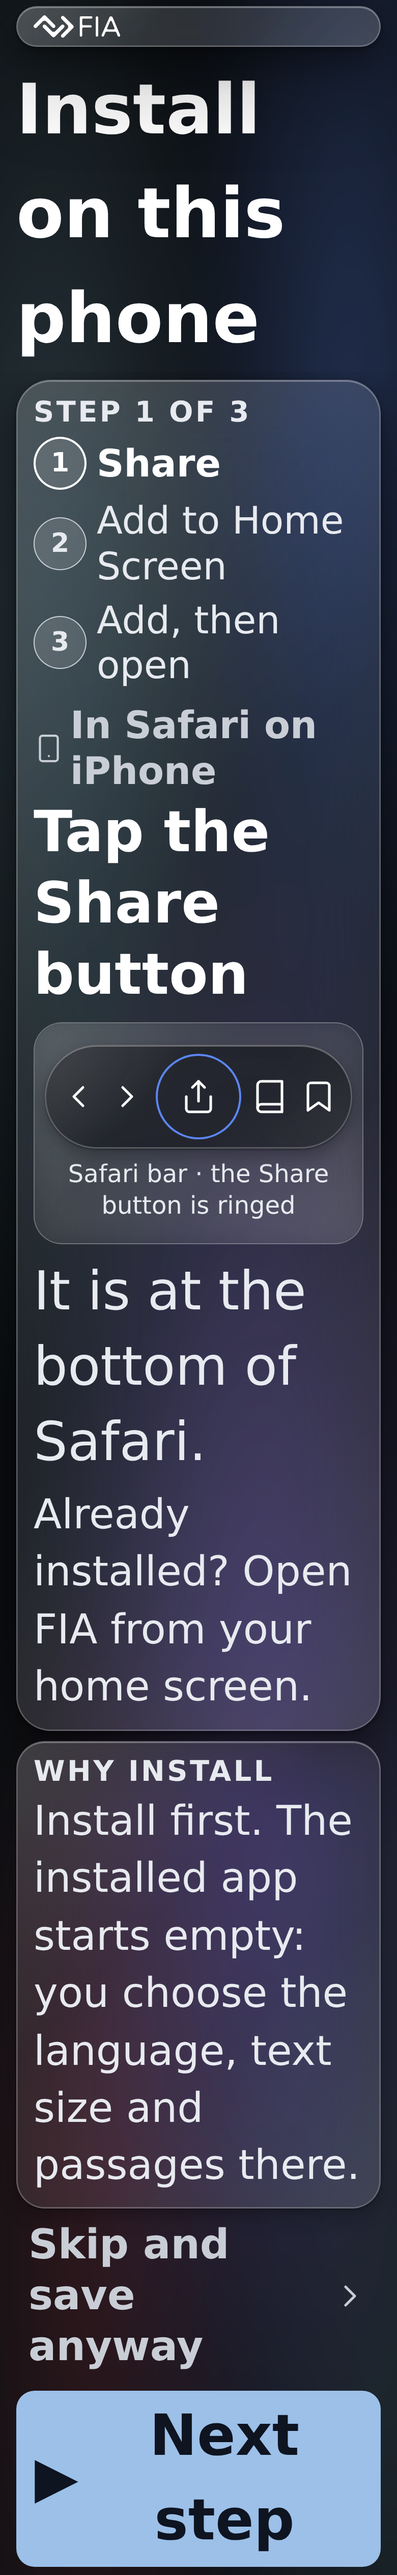
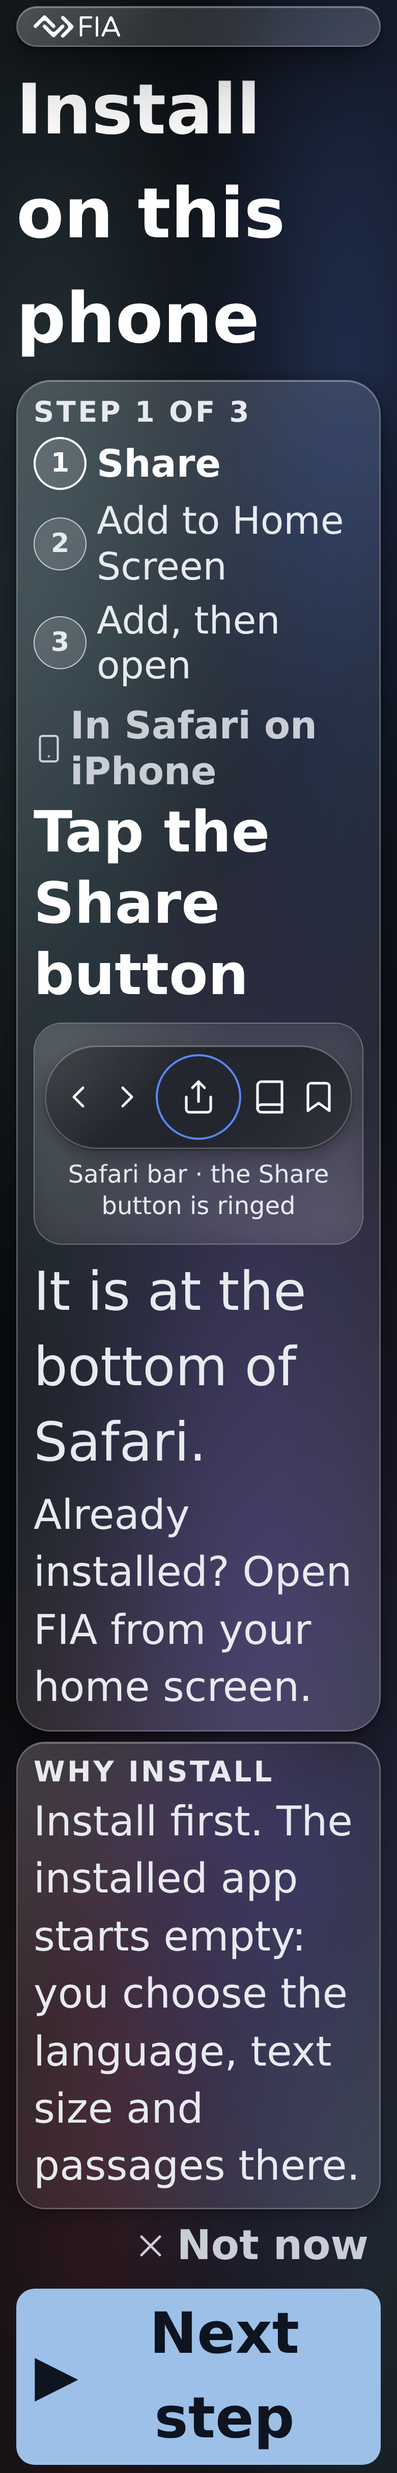
F6-S17 fix: install drawings stay in the well; Previous clears Done at 1x
- alpha.css: .fia-install__sheet/.fia-install__dialog are border-box, so
  the 12px 14px padding sits inside min(100%, w*k): the step 3 'Add'
  dialog and Android's install box no longer pass the well at 1.3-3.1x
  (390 px: 42-348 inside 34-356). Mock per-drawing widths 220/240/250.
- alpha.css: @container fia-install (200%+) stacks the app icon over its
  name (mock :96).
- alpha.css: the well's 180 px floor and 18 px padding apply only above
  100% text (--fia-scaled from --fia-text-scale; mock html.fia-scaled);
  at 1x it hugs the drawing, so iOS steps 1-3 fit 390x844 and Previous
  (669-717) and gate Skip (686-734) clear the primary slot (772).
- S17InstallGuide.tsx: fia-install__dialog--android modifier.
- screenshots/f6-s17: reshot (26 of 30 changed).

Claude-Session: https://claude.ai/code/session_01UL3jJLr811FBsSwPHTeK16

Changed region(s): [[0.0308, 0.0, 0.9846, 0.9951], [0.9231, 0.1555, 0.9538, 0.1866]]

diff --git a/src/tokens/alpha.css b/src/tokens/alpha.css
@@ -430,11 +430,14 @@ body {
   margin-top: 12px;
 }
 .fia-install__well-inner {
+  /* 0 at 100% text, 1 at any larger step (mock html.fia-scaled): at 1× the well hugs its drawing so
+     steps 1–3 and the quiet row clear the sticky primary slot at 390×844; the 180 px floor is large text only. */
+  --fia-scaled: clamp(0, (var(--fia-text-scale) - 1) * 1000, 1);
   position: relative;
   display: grid;
   place-items: center;
-  min-height: 180px;
-  padding: 18px 8px;
+  min-height: calc(180px * var(--fia-scaled));
+  padding: calc(14px + 4px * var(--fia-scaled)) 8px;
 }
 .fia-install__draw {
   --k: min(var(--fia-text-scale), 2);
@@ -480,12 +483,19 @@ body {
   padding: 3px 8px;
   font-weight: var(--fw-semibold);
 }
+/* Border-box: the 12px 14px padding sits inside the width, so the drawing never passes the well (mock widths 220/240/250). */
 .fia-install__sheet,
 .fia-install__dialog {
-  width: min(100%, calc(230px * var(--k)));
+  --w: 240px;
+  box-sizing: border-box;
+  width: min(100%, calc(var(--w) * var(--k)));
 }
 .fia-install__sheet {
+  --w: 220px;
   padding: 2px 0;
+}
+.fia-install__dialog--android {
+  --w: 250px;
 }
 .fia-install__sheet-row {
   position: relative;
@@ -644,5 +654,9 @@ body {
   }
   .fia-install__bar {
     padding: 10px 14px;
+  }
+  .fia-install__app-row {
+    flex-direction: column; /* 200%+: the icon over the words, which take the drawing's width (mock :96) */
+    align-items: flex-start;
   }
 }

diff --git a/src/screens/S17InstallGuide.tsx b/src/screens/S17InstallGuide.tsx
@@ -153,7 +153,7 @@ function Drawing({ kind }: { kind: 'ios1' | 'ios2' | 'ios3' | 'android' }) {
         blur="medium"
         radius="lg"
         shadow="rest"
-        className="fia-install__dialog"
+        className="fia-install__dialog fia-install__dialog--android"
       >
         <span className="fia-install__dialog-title">{t('s.install.draw.install-app')}</span>
         <span className="fia-install__app-row">
